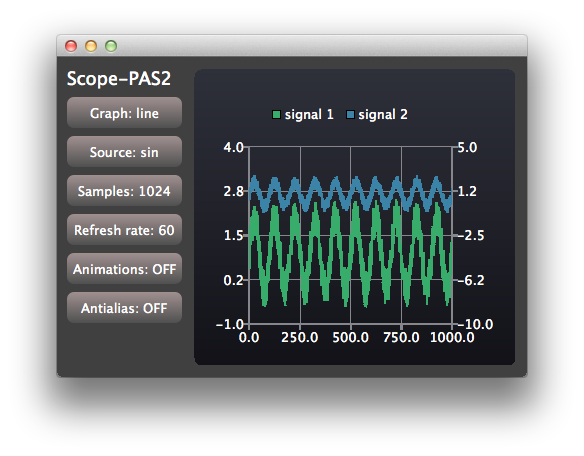
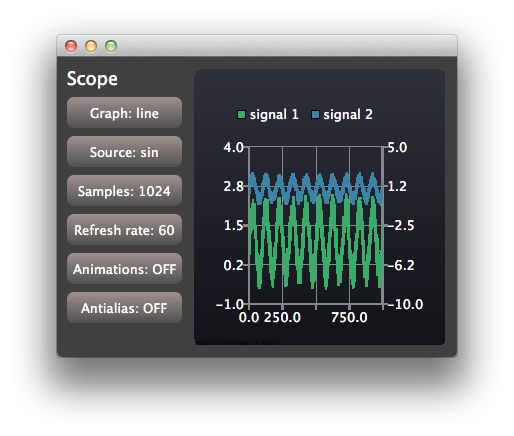
Renamed oscilloscope

Changed region(s): [[0.0934, 0.0596, 0.9027, 0.8349]]

diff --git a/demos/qmloscilloscope/qml/qmloscilloscope/ControlPanel.qml b/demos/qmloscilloscope/qml/qmloscilloscope/ControlPanel.qml
@@ -29,7 +29,7 @@ Column {
     signal antialiasingEnabled(bool enabled)
 
     Text {
-        text: "Scope-PAS2"
+        text: "Scope"
         font.pointSize: 18
         color: "white"
     }
